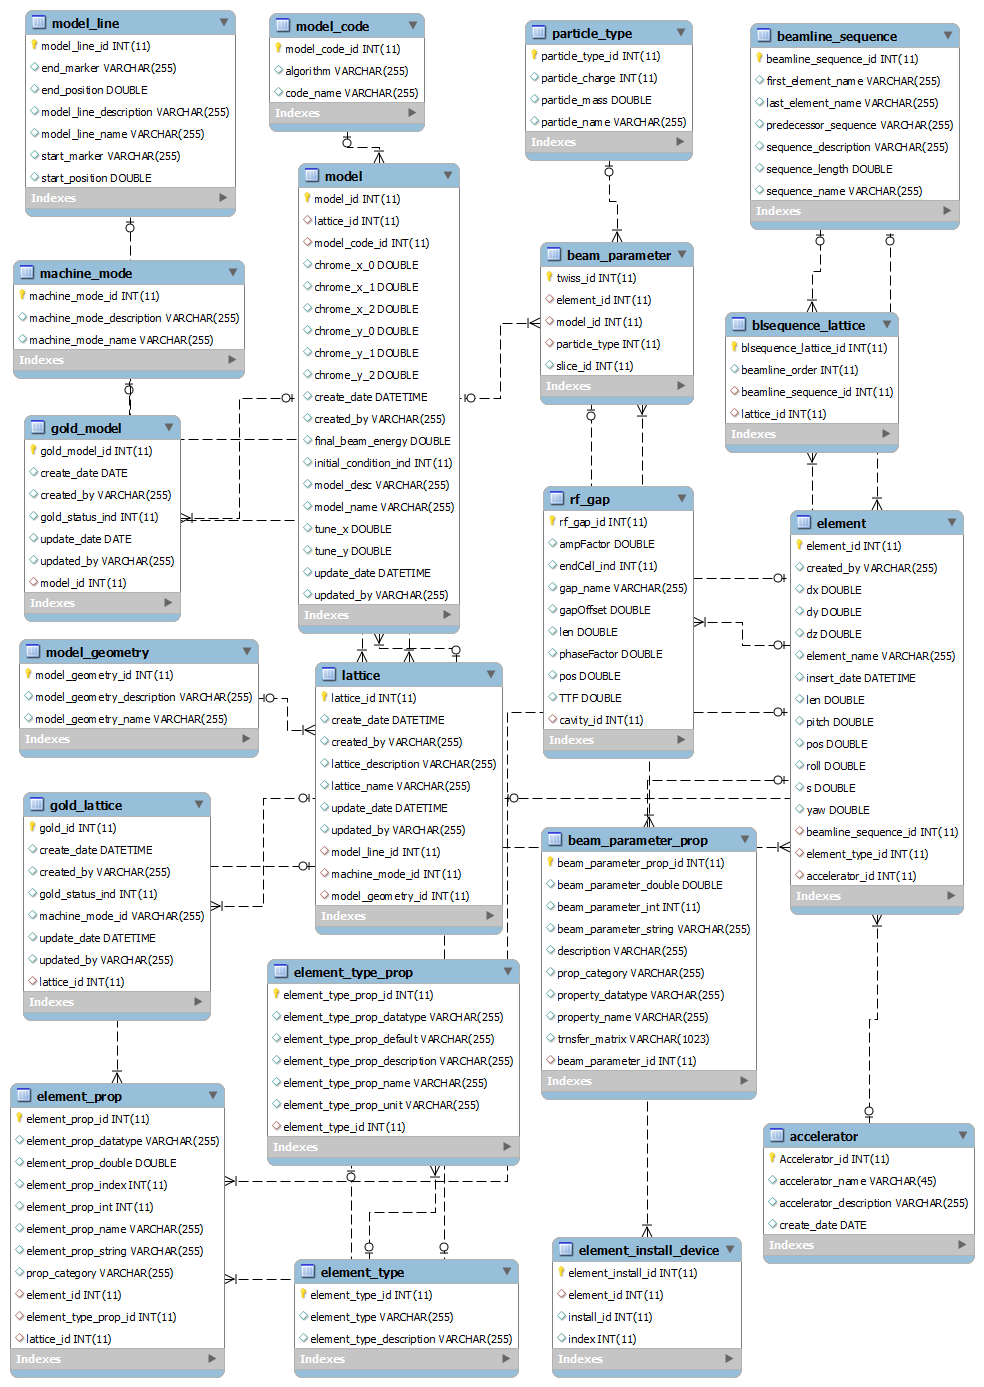
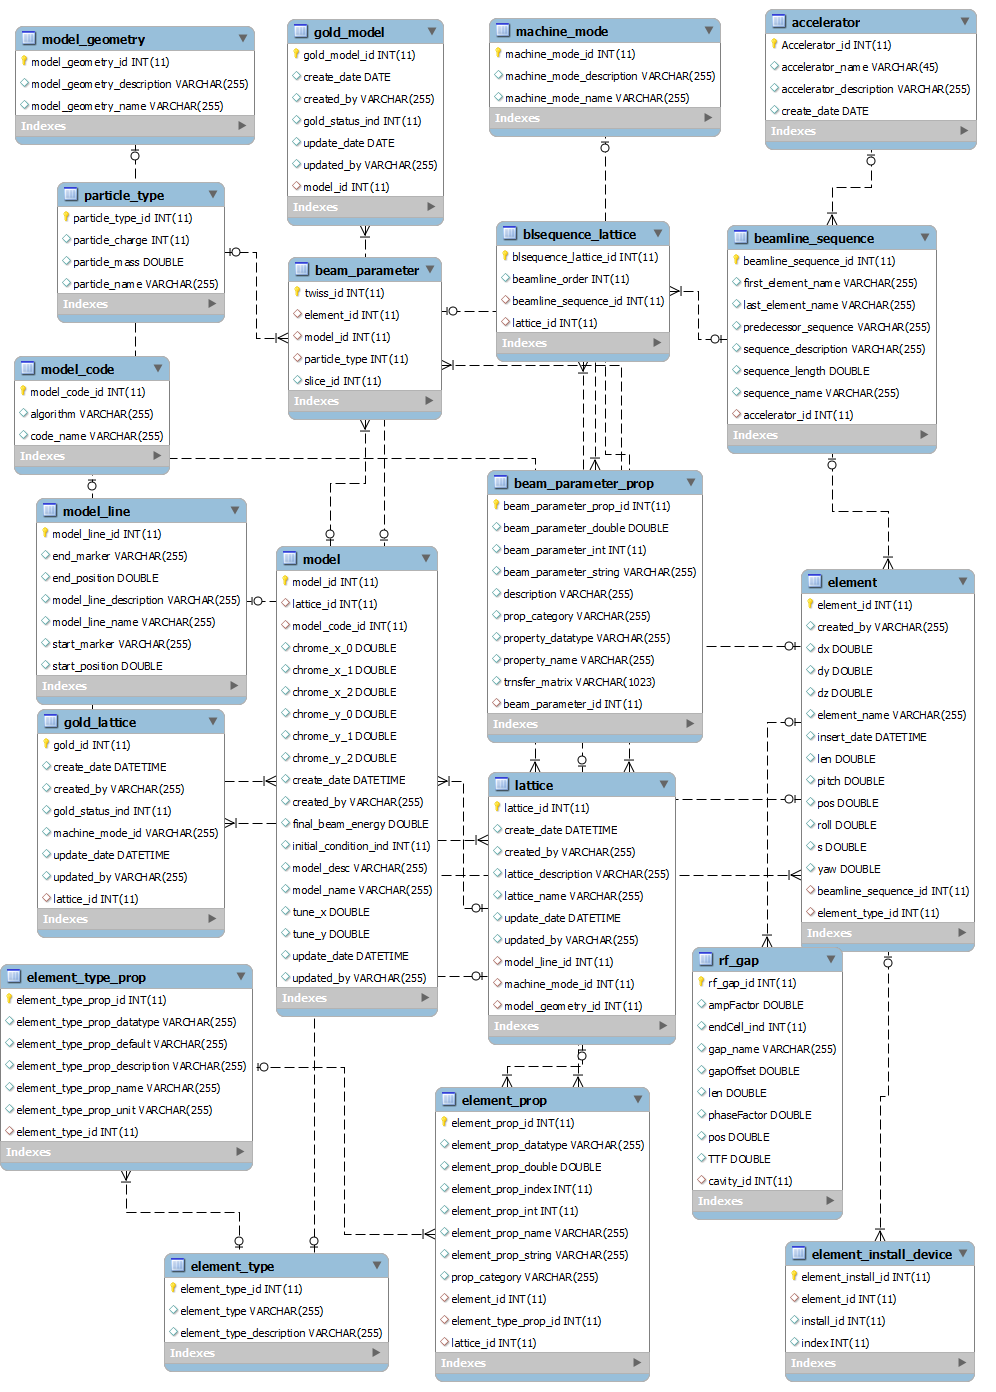
Schema modification done, Excel lattice upload done.

diff --git a/modelDB/src/org/openepics/model/entity/Accelerator.java b/modelDB/src/org/openepics/model/entity/Accelerator.java
@@ -35,8 +35,10 @@ import javax.xml.bind.annotation.XmlTransient;
     @NamedQuery(name = "Accelerator.findByAcceleratorid", query = "SELECT a FROM Accelerator a WHERE a.acceleratorid = :acceleratorid"),
     @NamedQuery(name = "Accelerator.findByAcceleratorName", query = "SELECT a FROM Accelerator a WHERE a.acceleratorName = :acceleratorName"),
     @NamedQuery(name = "Accelerator.findByAcceleratorDescription", query = "SELECT a FROM Accelerator a WHERE a.acceleratorDescription = :acceleratorDescription"),
-    @NamedQuery(name = "Accelerator.findByDate", query = "SELECT a FROM Accelerator a WHERE a.date = :date")})
+    @NamedQuery(name = "Accelerator.findByDate", query = "SELECT a FROM Accelerator a WHERE a.createDate = :createDate")})
 public class Accelerator implements Serializable {
+    @OneToMany(mappedBy = "acceleratorId")
+    private Collection<BeamlineSequence> beamlineSequenceCollection;
     @Column(name = "create_date")
     @Temporal(TemporalType.DATE)
     private Date createDate;
@@ -52,8 +54,6 @@ public class Accelerator implements Serializable {
     @Size(max = 255)
     @Column(name = "accelerator_description")
     private String acceleratorDescription;
-    @OneToMany(mappedBy = "acceleratorId")
-    private Collection<Element> elementCollection;
 
     public Accelerator() {
     }
@@ -84,15 +84,6 @@ public class Accelerator implements Serializable {
 
     public void setAcceleratorDescription(String acceleratorDescription) {
         this.acceleratorDescription = acceleratorDescription;
-    }
-
-    @XmlTransient
-    public Collection<Element> getElementCollection() {
-        return elementCollection;
-    }
-
-    public void setElementCollection(Collection<Element> elementCollection) {
-        this.elementCollection = elementCollection;
     }
 
     @Override
@@ -126,6 +117,15 @@ public class Accelerator implements Serializable {
 
     public void setCreateDate(Date createDate) {
         this.createDate = createDate;
+    }
+
+    @XmlTransient
+    public Collection<BeamlineSequence> getBeamlineSequenceCollection() {
+        return beamlineSequenceCollection;
+    }
+
+    public void setBeamlineSequenceCollection(Collection<BeamlineSequence> beamlineSequenceCollection) {
+        this.beamlineSequenceCollection = beamlineSequenceCollection;
     }
     
 }

diff --git a/modelDB/src/org/openepics/model/entity/BeamlineSequence.java b/modelDB/src/org/openepics/model/entity/BeamlineSequence.java
@@ -1,5 +1,6 @@
 /*
- * To change this template, choose Tools | Templates
+ * To change this license header, choose License Headers in Project Properties.
+ * To change this template file, choose Tools | Templates
  * and open the template in the editor.
  */
 package org.openepics.model.entity;
@@ -12,6 +13,8 @@ import javax.persistence.Entity;
 import javax.persistence.GeneratedValue;
 import javax.persistence.GenerationType;
 import javax.persistence.Id;
+import javax.persistence.JoinColumn;
+import javax.persistence.ManyToOne;
 import javax.persistence.NamedQueries;
 import javax.persistence.NamedQuery;
 import javax.persistence.OneToMany;
@@ -22,7 +25,7 @@ import javax.xml.bind.annotation.XmlTransient;
 
 /**
  *
- * @author admin
+ * @author chu
  */
 @Entity
 @Table(name = "beamline_sequence")
@@ -61,6 +64,9 @@ public class BeamlineSequence implements Serializable {
     @Size(max = 255)
     @Column(name = "sequence_name")
     private String sequenceName;
+    @JoinColumn(name = "accelerator_id", referencedColumnName = "Accelerator_id")
+    @ManyToOne
+    private Accelerator acceleratorId;
     @OneToMany(mappedBy = "beamlineSequenceId")
     private Collection<Element> elementCollection;
     @OneToMany(mappedBy = "beamlineSequenceId")
@@ -127,6 +133,14 @@ public class BeamlineSequence implements Serializable {
 
     public void setSequenceName(String sequenceName) {
         this.sequenceName = sequenceName;
+    }
+
+    public Accelerator getAcceleratorId() {
+        return acceleratorId;
+    }
+
+    public void setAcceleratorId(Accelerator acceleratorId) {
+        this.acceleratorId = acceleratorId;
     }
 
     @XmlTransient

diff --git a/modelDB/src/edu/msu/frib/xal/exl2DB/Excel2DB.java b/modelDB/src/edu/msu/frib/xal/exl2DB/Excel2DB.java
@@ -46,15 +46,19 @@ public class Excel2DB {
                 String created_by = si.getAuthor();
                 Date create_date = si.getLastSaveDateTime();
                 String accName = si.getTitle();
+                String desc = si.getComments();
                 Accelerator acc = new AcceleratorAPI().getAcceleratorByName(accName);
                 if (acc != null) {
                     System.out.println("The Accelerator "+accName+" exists in the database! Please don't insert repeatedly! ");
                 } else {
-
+                    // write to Accelerator Table
+                    AcceleratorAPI accAPI = new AcceleratorAPI();
+                    accAPI.setAccelerator(accName, desc, create_date);
+                    
                     DevTpMap2DB.instDB(Data2Map.getMapData(ReadSheet.getDataList(wb, "device types")));
                     DevModTpMap2BD.instDB(Data2Map.getMapData(ReadSheet.getDataList(wb, "device-model types")));
                     SeqMap2DB seqMap2DB = new SeqMap2DB();
-                    seqMap2DB.instDB(SeqData2Map.getMapData(ReadSheet.getDataList(wb, "beamline sequences")), latticeName, created_by, create_date);
+                    seqMap2DB.instDB(SeqData2Map.getMapData(ReadSheet.getDataList(wb, "beamline sequences")), acc, latticeName, created_by, create_date);
                     EncapData2DB.instDB(wb, "elements", latticeName, created_by, create_date);
                     RfMap2DB.instDB(Data2Map.getMapData(ReadSheet.getDataList(wb, "RF Gaps")));
                     BeamEncapData2DB.instDB(wb, "init conditions", latticeName, created_by, create_date);

diff --git a/modelDB/src/org/openepics/model/entity/Element.java b/modelDB/src/org/openepics/model/entity/Element.java
@@ -1,5 +1,6 @@
 /*
- * To change this template, choose Tools | Templates
+ * To change this license header, choose License Headers in Project Properties.
+ * To change this template file, choose Tools | Templates
  * and open the template in the editor.
  */
 package org.openepics.model.entity;
@@ -27,7 +28,7 @@ import javax.xml.bind.annotation.XmlTransient;
 
 /**
  *
- * @author admin
+ * @author chu
  */
 @Entity
 @Table(name = "element")
@@ -48,9 +49,6 @@ import javax.xml.bind.annotation.XmlTransient;
     @NamedQuery(name = "Element.findByS", query = "SELECT e FROM Element e WHERE e.s = :s"),
     @NamedQuery(name = "Element.findByYaw", query = "SELECT e FROM Element e WHERE e.yaw = :yaw")})
 public class Element implements Serializable {
-    @JoinColumn(name = "accelerator_id", referencedColumnName = "Accelerator_id")
-    @ManyToOne
-    private Accelerator acceleratorId;
     private static final long serialVersionUID = 1L;
     @Id
     @GeneratedValue(strategy = GenerationType.IDENTITY)
@@ -286,14 +284,6 @@ public class Element implements Serializable {
     @Override
     public String toString() {
         return "org.openepics.model.entity.Element[ elementId=" + elementId + " ]";
-    }
-
-    public Accelerator getAcceleratorId() {
-        return acceleratorId;
-    }
-
-    public void setAcceleratorId(Accelerator acceleratorId) {
-        this.acceleratorId = acceleratorId;
     }
     
 }

diff --git a/modelDB/src/edu/msu/frib/xal/exl2DB/lat_mod2DB/SeqMap2DB.java b/modelDB/src/edu/msu/frib/xal/exl2DB/lat_mod2DB/SeqMap2DB.java
@@ -17,6 +17,7 @@ import org.openepics.model.api.BeamlineSequenceAPI;
 import org.openepics.model.api.BlsequenceLatticeAPI;
 import org.openepics.model.api.ElementAPI;
 import org.openepics.model.api.LatticeAPI;
+import org.openepics.model.entity.Accelerator;
 import org.openepics.model.entity.BeamlineSequence;
 import org.openepics.model.entity.Element;
 import org.openepics.model.entity.Lattice;
@@ -28,7 +29,7 @@ import org.openepics.model.entity.Lattice;
  */
 public class SeqMap2DB {
 
-    public void instDB(ArrayList mapData, String latticeName, String created_by, Date create_date) {
+    public void instDB(ArrayList mapData, Accelerator acc, String latticeName, String created_by, Date create_date) {
         if (latticeName == null || "".equals(latticeName)) {
             System.out.println("Please insert the Lattice name!");
         } else {
@@ -70,6 +71,7 @@ public class SeqMap2DB {
                         bs.setPredecessorSequence(pre_seq);
                         bs.setSequenceLength(seq_length);
                         bs.setSequenceDescription(seq_des);
+                        bs.setAcceleratorId(acc);
                     }
 
                     new BlsequenceLatticeAPI().setBlsequenceLattice(bs, lattice, bl_seq_order);

diff --git a/modelDB/src/org/openepics/model/api/AcceleratorAPI.java b/modelDB/src/org/openepics/model/api/AcceleratorAPI.java
@@ -13,9 +13,7 @@ import javax.persistence.Persistence;
 import javax.persistence.PersistenceContext;
 import javax.persistence.PersistenceUnit;
 import javax.persistence.Query;
-import static org.openepics.model.api.LatticeAPI.em;
 import org.openepics.model.entity.Accelerator;
-import org.openepics.model.entity.Lattice;
 
 /**
  *
@@ -27,18 +25,16 @@ public class AcceleratorAPI {
     static EntityManager em = emf.createEntityManager();
 
     @PersistenceContext
-    public int setAccelerator(String accelerator_name, String accelerator_description, Date create_date) {
+    public void setAccelerator(String accelerator_name, String accelerator_description, Date create_date) {
         Accelerator acc = new Accelerator();
-        Date date = new Date();
+//        Date date = new Date();
         acc.setAcceleratorName(accelerator_name);
-        acc.setCreateDate(date);
+        acc.setCreateDate(create_date);
         acc.setAcceleratorDescription(accelerator_description);
  
         em.getTransaction().begin();
         em.persist(acc);
         em.getTransaction().commit();
-
-        return acc.getAcceleratorid();
 
     } 
     
